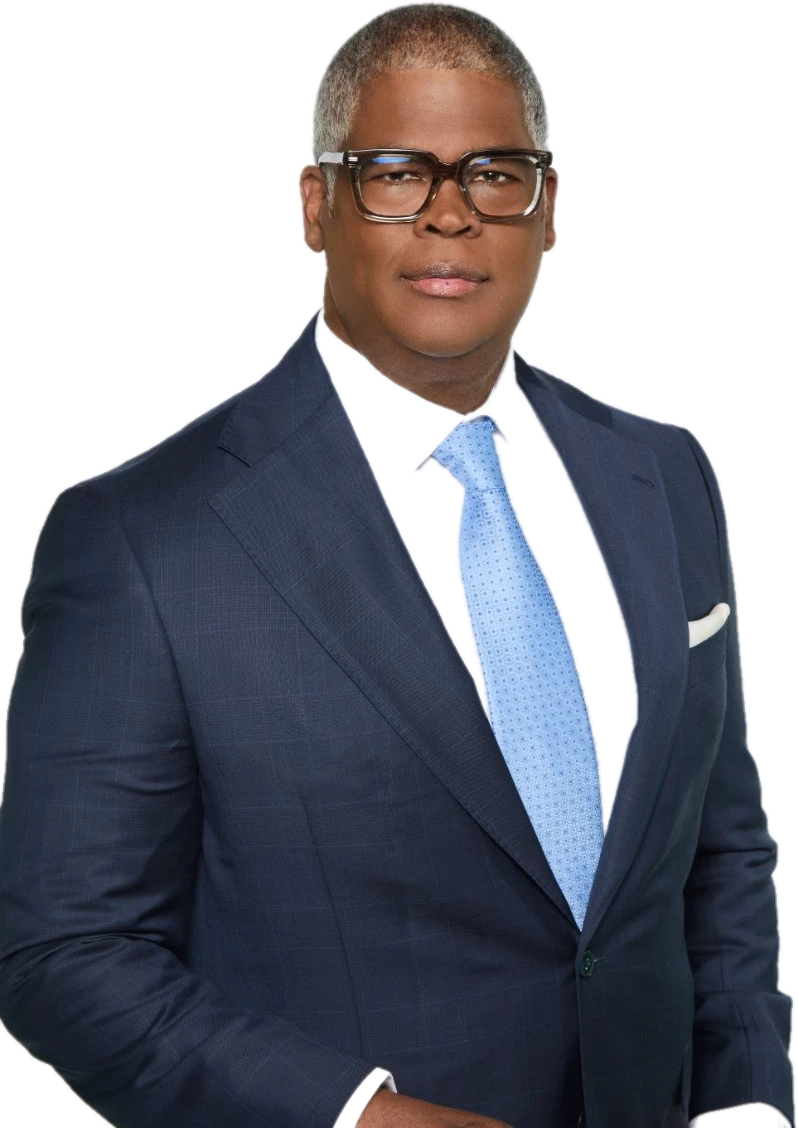
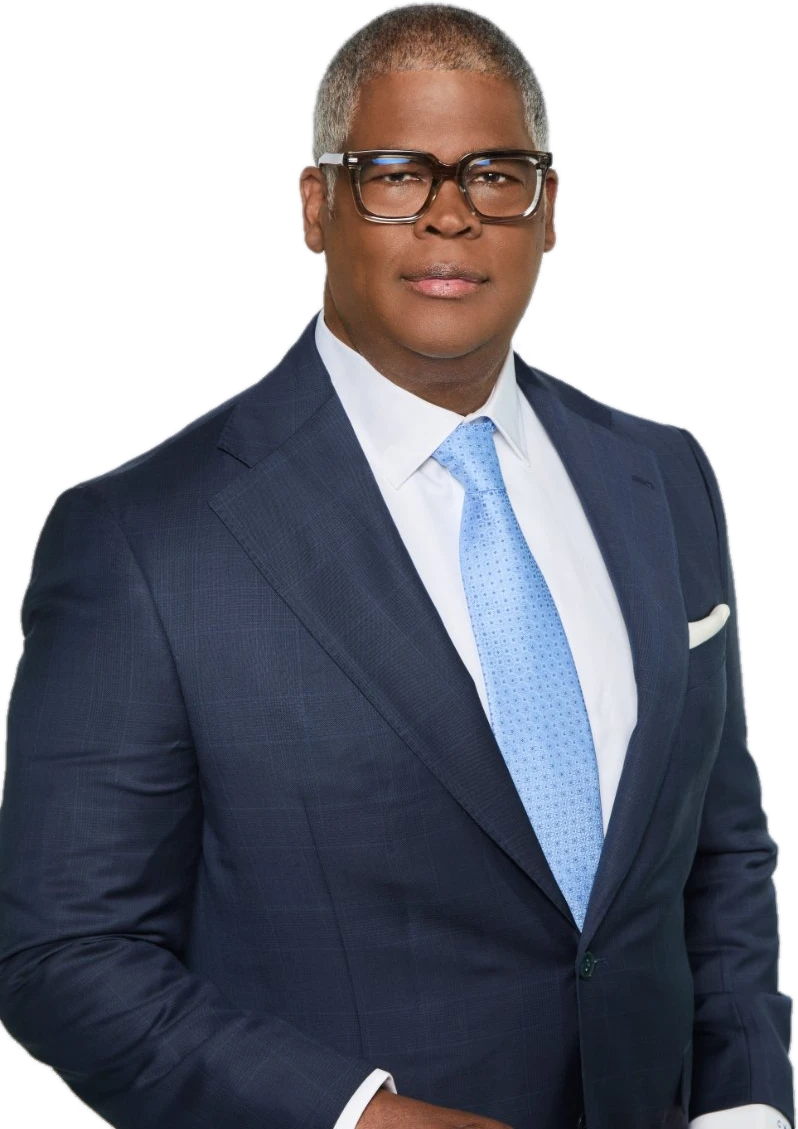
Fix the backdrop showing through Charles Payne's shirt
His white shirt was being removed with the studio backdrop, so the card's
teal sky showed through at his collar and chest. The two whites are close:
backdrop luma 222-226, shirt 236-239. The matte's tolerance was +-38, wide
enough to treat the shirt as backdrop and follow it in from the frame edge.

Re-cut at +-12, which still covers the whole backdrop (darkest corner ~211)
but stops at the shirt. Bottom edge no longer seeds the fill either - that
is the subject, not the backdrop, and it was eating his cuffs. Checked over
solid magenta: shirt, collar and cuffs are opaque, no fringe at the hair.

Rebecca checked the same way and is unchanged.

The image URL carries ?v=2 so browsers and the CDN fetch the new file.

diff --git a/index.html b/index.html
@@ -1822,7 +1822,7 @@ button{ font:inherit; color:inherit; background:none; border:none; cursor:pointe
           <img class="ecard__sky" src="Brand%20Assets/Hero%20Background%20v2.webp" alt="" width="2880" height="1620" aria-hidden="true" />
           <img class="ecard__cut ecard__cut--a" src="Brand%20Assets/cutout-rebecca.webp"
                alt="Rebecca Walser, Founder, CEO and Chief Investment Officer of Walser Wealth Management" width="900" height="1136" />
-          <img class="ecard__cut ecard__cut--b" src="Brand%20Assets/cutout-charles.webp"
+          <img class="ecard__cut ecard__cut--b" src="Brand%20Assets/cutout-charles.webp?v=2"
                alt="Charles Payne, host of Making Money with Charles Payne on Fox Business" width="798" height="1128" />
           <div class="ecard__names">
             <p><b>Rebecca Walser</b><span>Founder, CEO &amp; CIO<br>Walser Wealth Management</span></p>
